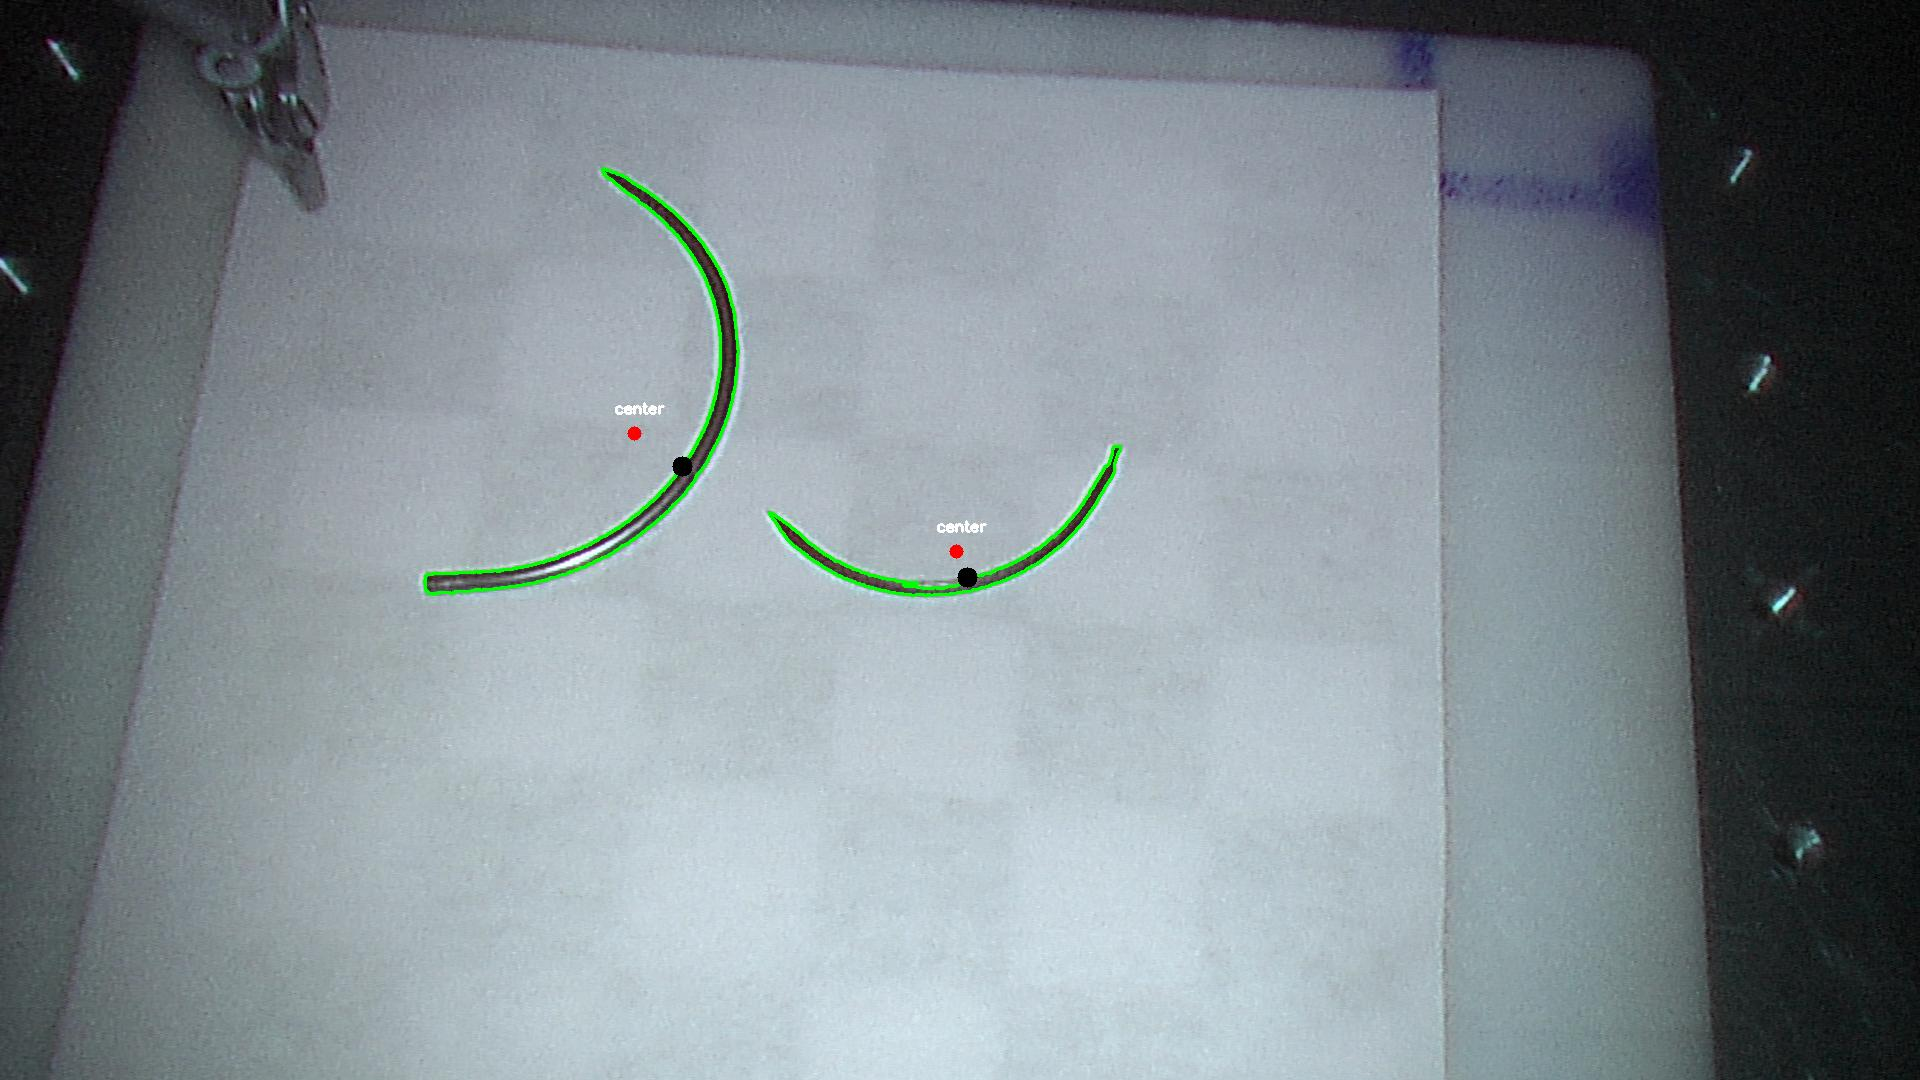
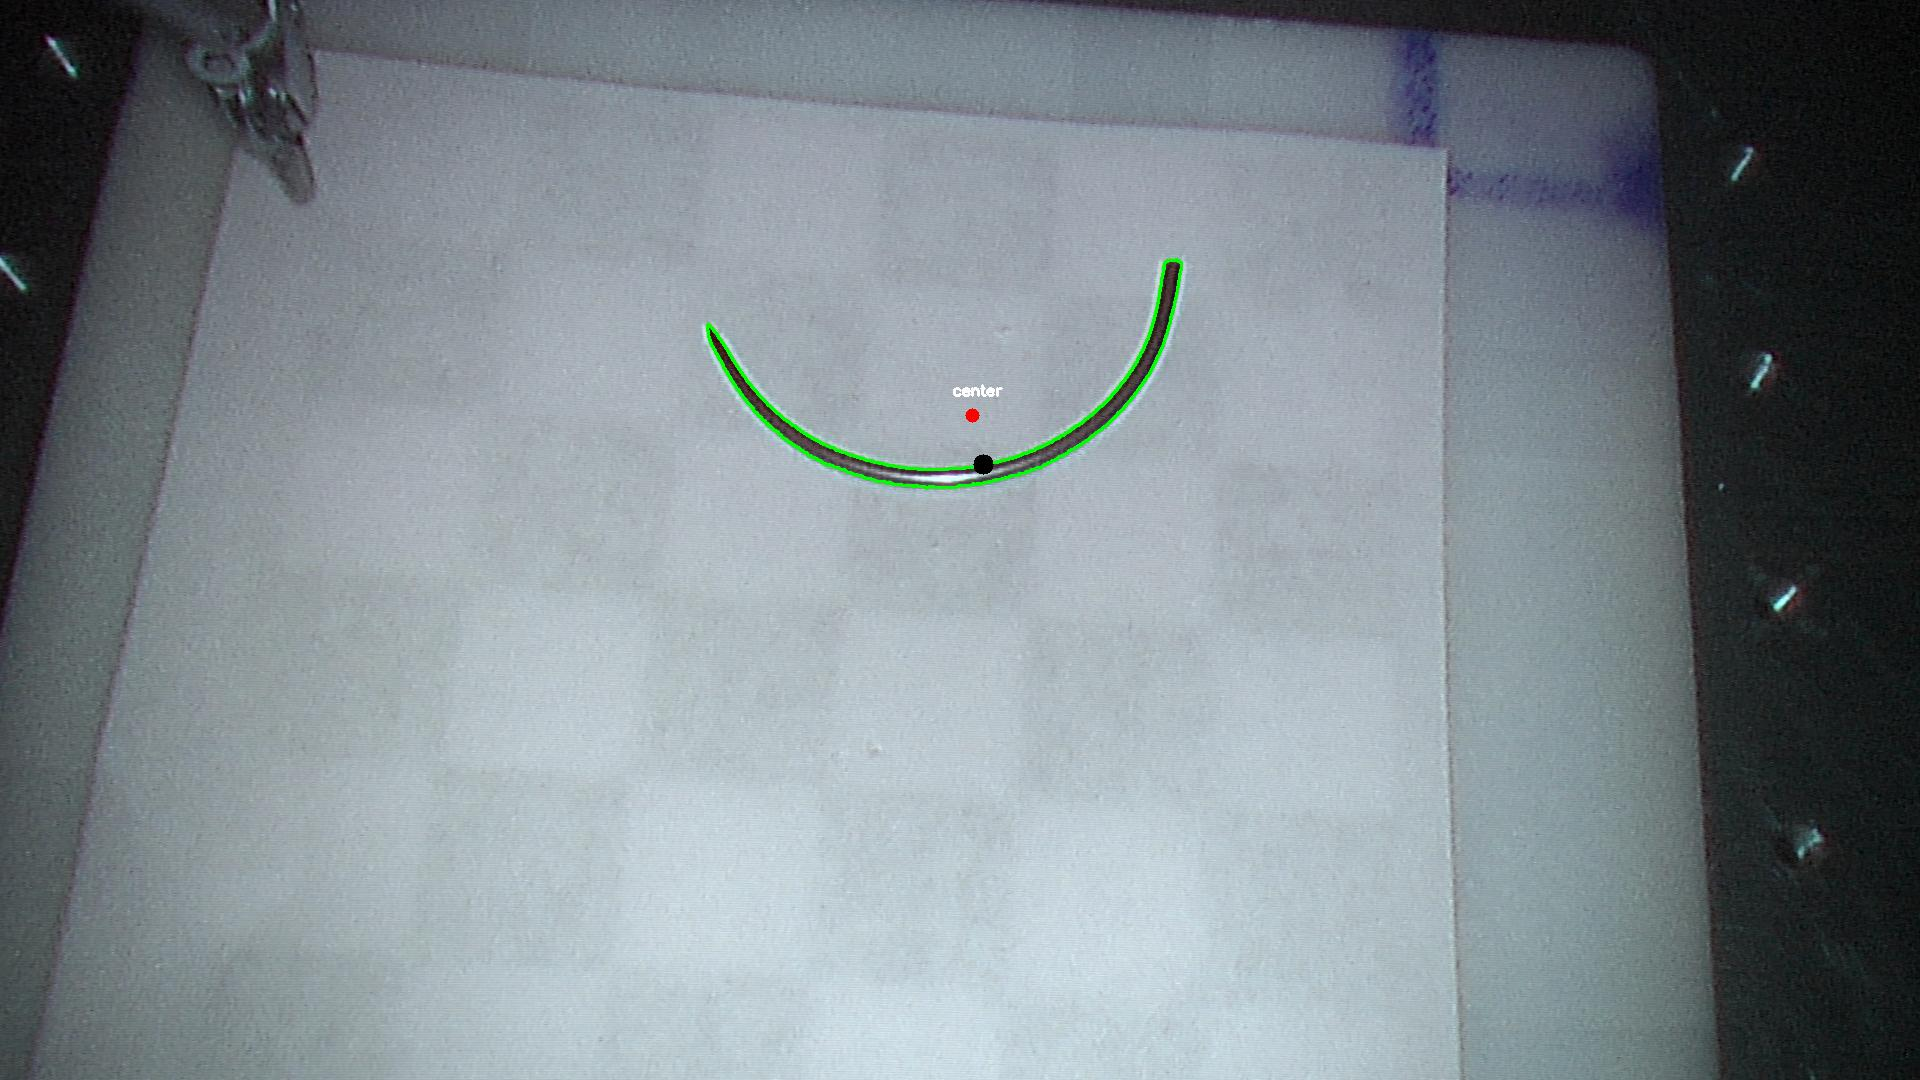
fixing bug in needle_robust - triangulation is sometimes way off

diff --git a/needle_robust.py b/needle_robust.py
@@ -45,12 +45,14 @@ class EllipseDetector:
         self.bridge = cv_bridge.CvBridge()
         self.left_image = None
         self.right_image = None
+        self.corrected_left = None
+        self.corrected_right = None
         self.info = {'l': None, 'r': None, 'b': None, 'd': None}
         self.plane = None
         self.area_lower = 300
         self.area_upper = 30000
         self.ellipse_area_lower = 10000
-        self.ellipse_area_upper = 30000
+        self.ellipse_area_upper = 200000
 
         #========SUBSCRIBERS========#
         # image subscribers
@@ -83,7 +85,9 @@ class EllipseDetector:
         else:
             self.right_image = self.bridge.imgmsg_to_cv2(msg, "bgr8")
         if self.left_image is not None:
-            self.process_image(self.left_image, self.right_image)
+            self.corrected_left = self.preprocess(self.left_image)
+            self.corrected_right = self.preprocess(self.right_image)
+            self.process_image(self.corrected_left, self.corrected_right)
 
     def left_image_callback(self, msg):
         if rospy.is_shutdown():
@@ -116,12 +120,13 @@ class EllipseDetector:
     def closest_to_centroid(self, contour_points, cX, cY):
         return min(contour_points, key=lambda c: abs(cv2.pointPolygonTest(c,(cX,cY),True)))
 
-    def report(self, contour, area, cX, cY, closest, ellipse_area):
+    def report(self, contour, area, cX, cY, closest, ellipse_area, angle):
         print('Contour Detected')
         print('Contour Area:', area)
         print('Centroid', cX, cY)
         print('Closest Point', closest[0], closest[1])
         print('Ellipse Area:', ellipse_area)
+        print('Angle:', angle)
         print('---')
 
     def preprocess(self, image):
@@ -147,8 +152,7 @@ class EllipseDetector:
     def process_image(self, *images):
         left, right = [], []
         for image in images:
-            thresh = self.preprocess(image)
-            im2, contours, hierarchy = cv2.findContours(thresh, cv2.RETR_EXTERNAL, cv2.CHAIN_APPROX_SIMPLE)
+            im2, contours, hierarchy = cv2.findContours(image, cv2.RETR_EXTERNAL, cv2.CHAIN_APPROX_SIMPLE)
             for c in contours:
                 M = cv2.moments(c)
                 area = cv2.contourArea(c)
@@ -161,21 +165,22 @@ class EllipseDetector:
                     aspect_ratio = ma/MA
                     ellipse_area = (np.pi * ma * MA)/4
                     true_center = (closest[0], closest[1])
-                    if (0.75 < aspect_ratio < 1.0):
-                        if image is self.right_image:
+                    if (0.75 < aspect_ratio < 1.0) and self.ellipse_area_lower < ellipse_area:
+                        if image is self.corrected_right:
                             right.append(true_center)
-                            self.report(c, area, cX, cY, closest, ellipse_area)
-                            cv2.drawContours(image, [c], -1, (0, 255, 0), 2)
-                            cv2.ellipse(image, ellipse, (255, 0, 0), 2)
-                            cv2.circle(image, (cX, cY), 7, (255, 255, 255), -1)
-                            cv2.putText(image, "center", (cX - 20, cY - 20), cv2.FONT_HERSHEY_SIMPLEX, 0.5, (255, 255, 255), 2)
-                            cv2.circle(image, true_center, 10, (0, 0, 0), -1)
+                            self.report(c, area, cX, cY, closest, ellipse_area, angle)
+                            cv2.drawContours(self.right_image, [c], -1, (0, 255, 0), 2)
+                            cv2.ellipse(self.right_image, ellipse, (255, 0, 0), 2)
+                            cv2.circle(self.right_image, (cX, cY), 7, (255, 255, 255), -1)
+                            cv2.putText(self.right_image, "center", (cX - 20, cY - 20), cv2.FONT_HERSHEY_SIMPLEX, 0.5, (255, 255, 255), 2)
+                            cv2.circle(self.right_image, true_center, 10, (0, 0, 0), -1)
                         else:
                             left.append(true_center)
-                    else:
-                        cv2.drawContours(image, [c], -1, (0, 0, 255), 2)
-                        cv2.ellipse(image, ellipse, (0, 0, 255), 2)
-                        cv2.putText(image, "REJECTED", (cX - 20, cY - 20), cv2.FONT_HERSHEY_SIMPLEX, 0.5, (255, 255, 255), 2)
+                        
+                    # else:
+                    #     cv2.drawContours(image, [c], -1, (0, 0, 255), 2)
+                    #     cv2.ellipse(image, ellipse, (0, 0, 255), 2)
+                    #     cv2.putText(image, "REJECTED", (cX - 20, cY - 20), cv2.FONT_HERSHEY_SIMPLEX, 0.5, (255, 255, 255), 2)
         if len(right) > 0 and len(right) == len(left):
             pts3d = self.get_points_3d(left, right)
             print("Found")

diff --git a/transform.py b/transform.py
@@ -51,13 +51,14 @@ def get_transform(inpt, outpt, data_in, data_out):
     print(T)
     return T
 
-def transform_data(inpt, outpt, data_in, data_out, T):
+def transform_data(inpt, outpt, data_in, T, data_out=None):
     print("\nTransforming {0} --> {1} Transform Matrix".format(inpt, outpt))
     expected = transform(data_in, T)
     print(expected)
-    print("Actual {0} Data".format(outpt))
-    print(data_out)
-    print("Associated Error: " + str(error(expected, data_out)))
+    if data_out:
+        print("Actual {0} Data".format(outpt))
+        print(data_out)
+        print("Associated Error: " + str(error(expected, data_out)))
     return expected
 
 if __name__ == '__main__':
@@ -75,11 +76,11 @@ if __name__ == '__main__':
     T2_E = get_transform("PSM2", "Endoscope", psm2_matrix, endoscope_matrix)
     TE_2 = get_transform("Endoscope", "PSM2", endoscope_matrix, psm2_matrix)
 
-    psm2_e = transform_data("PSM2", "Endoscope", psm2_matrix, endoscope_matrix, T2_E)
-    psme_2 = transform_data("Endoscope", "PSM2", endoscope_matrix, psm2_matrix, TE_2)
+    psm2_e = transform_data("PSM2", "Endoscope", psm2_matrix, T2_E, endoscope_matrix)
+    psme_2 = transform_data("Endoscope", "PSM2", endoscope_matrix, TE_2, psm2_matrix)
 
     T2_W = get_transform("PSM2", "World", psm2_matrix, world)
-    psm2_w = transform_data("PSM2", "World", psm2_matrix, world, T2_W)
+    psm2_w = transform_data("PSM2", "World", psm2_matrix, T2_W, world)
 
     TE_W = get_transform("Endoscope", "World", endoscope_matrix, world)
-    e_w = transform_data("Endoscope", "World", endoscope_matrix, world, TE_W)
+    e_w = transform_data("Endoscope", "World", endoscope_matrix, TE_W, world)

diff --git a/move.py b/move.py
@@ -71,8 +71,6 @@ if __name__ == '__main__':
 						-0.00509171,    0.999786,   0.0200282,
 						 0.148609,   0.0205626,   -0.988682)
 
-	psm2.dmove(PyKDL.Vector(0.005, 0, 0))
-
 	""" Move to arbitrary start position (near upper left corner) & release anything gripper is
 	holding. """
 	home(psm2, pos, rot)
@@ -88,12 +86,9 @@ if __name__ == '__main__':
 
 	""" Solve for the transform between endoscope to PSM2 """
 	TE_2 = rigid_transform.solve_for_rigid_transformation(endoscope_calibration_matrix, psm2_calibration_matrix)
-	print('\nTransforming Needle Points Endoscope Frame --> PSM2 Frame')
-	print('            x           y           z')
-	needle_to_psm2 = transform.transform_matrix(needle_points, TE_2)
-	print(needle_to_psm2)
+	needle_to_psm2 = transform.transform_data("Endoscope", "PSM2",needle_points, TE_2)
 
-	""" Verbose test for moving the PSM to needle centers, picking them up, and releasing them """
+	""" Move to needle centers, pcik them up, and release them """
 	pickup(psm2, needle_to_psm2.tolist(), z_upper, z_lower)
 
 	home(psm2, pos, rot)

diff --git a/robust_ellipse.py b/robust_ellipse.py
@@ -20,8 +20,8 @@ class EllipseDetector:
         self.plane = None
         self.area_lower = 300
         self.area_upper = 30000
-        self.ellipse_area_lower = 10000
-        self.ellipse_area_upper = 30000
+        self.ellipse_area_lower = 5000
+        self.ellipse_area_upper = 200000
 
         #========SUBSCRIBERS========#
         # image subscribers
@@ -111,7 +111,7 @@ class EllipseDetector:
                 (x,y), (ma,MA), angle = ellipse
                 aspect_ratio = ma/MA
                 ellipse_area = (np.pi * ma * MA)/4
-                if (0.75 < aspect_ratio < 1.0):
+                if (0.75 < aspect_ratio < 1.0) and (self.ellipse_area_lower < ellipse_area):
                     self.report(c, area, cX, cY, closest, ellipse_area)
                     cv2.drawContours(self.right_image, [c], -1, (0, 255, 0), 2)
                     cv2.ellipse(self.right_image, ellipse, (255, 0, 0), 2)
